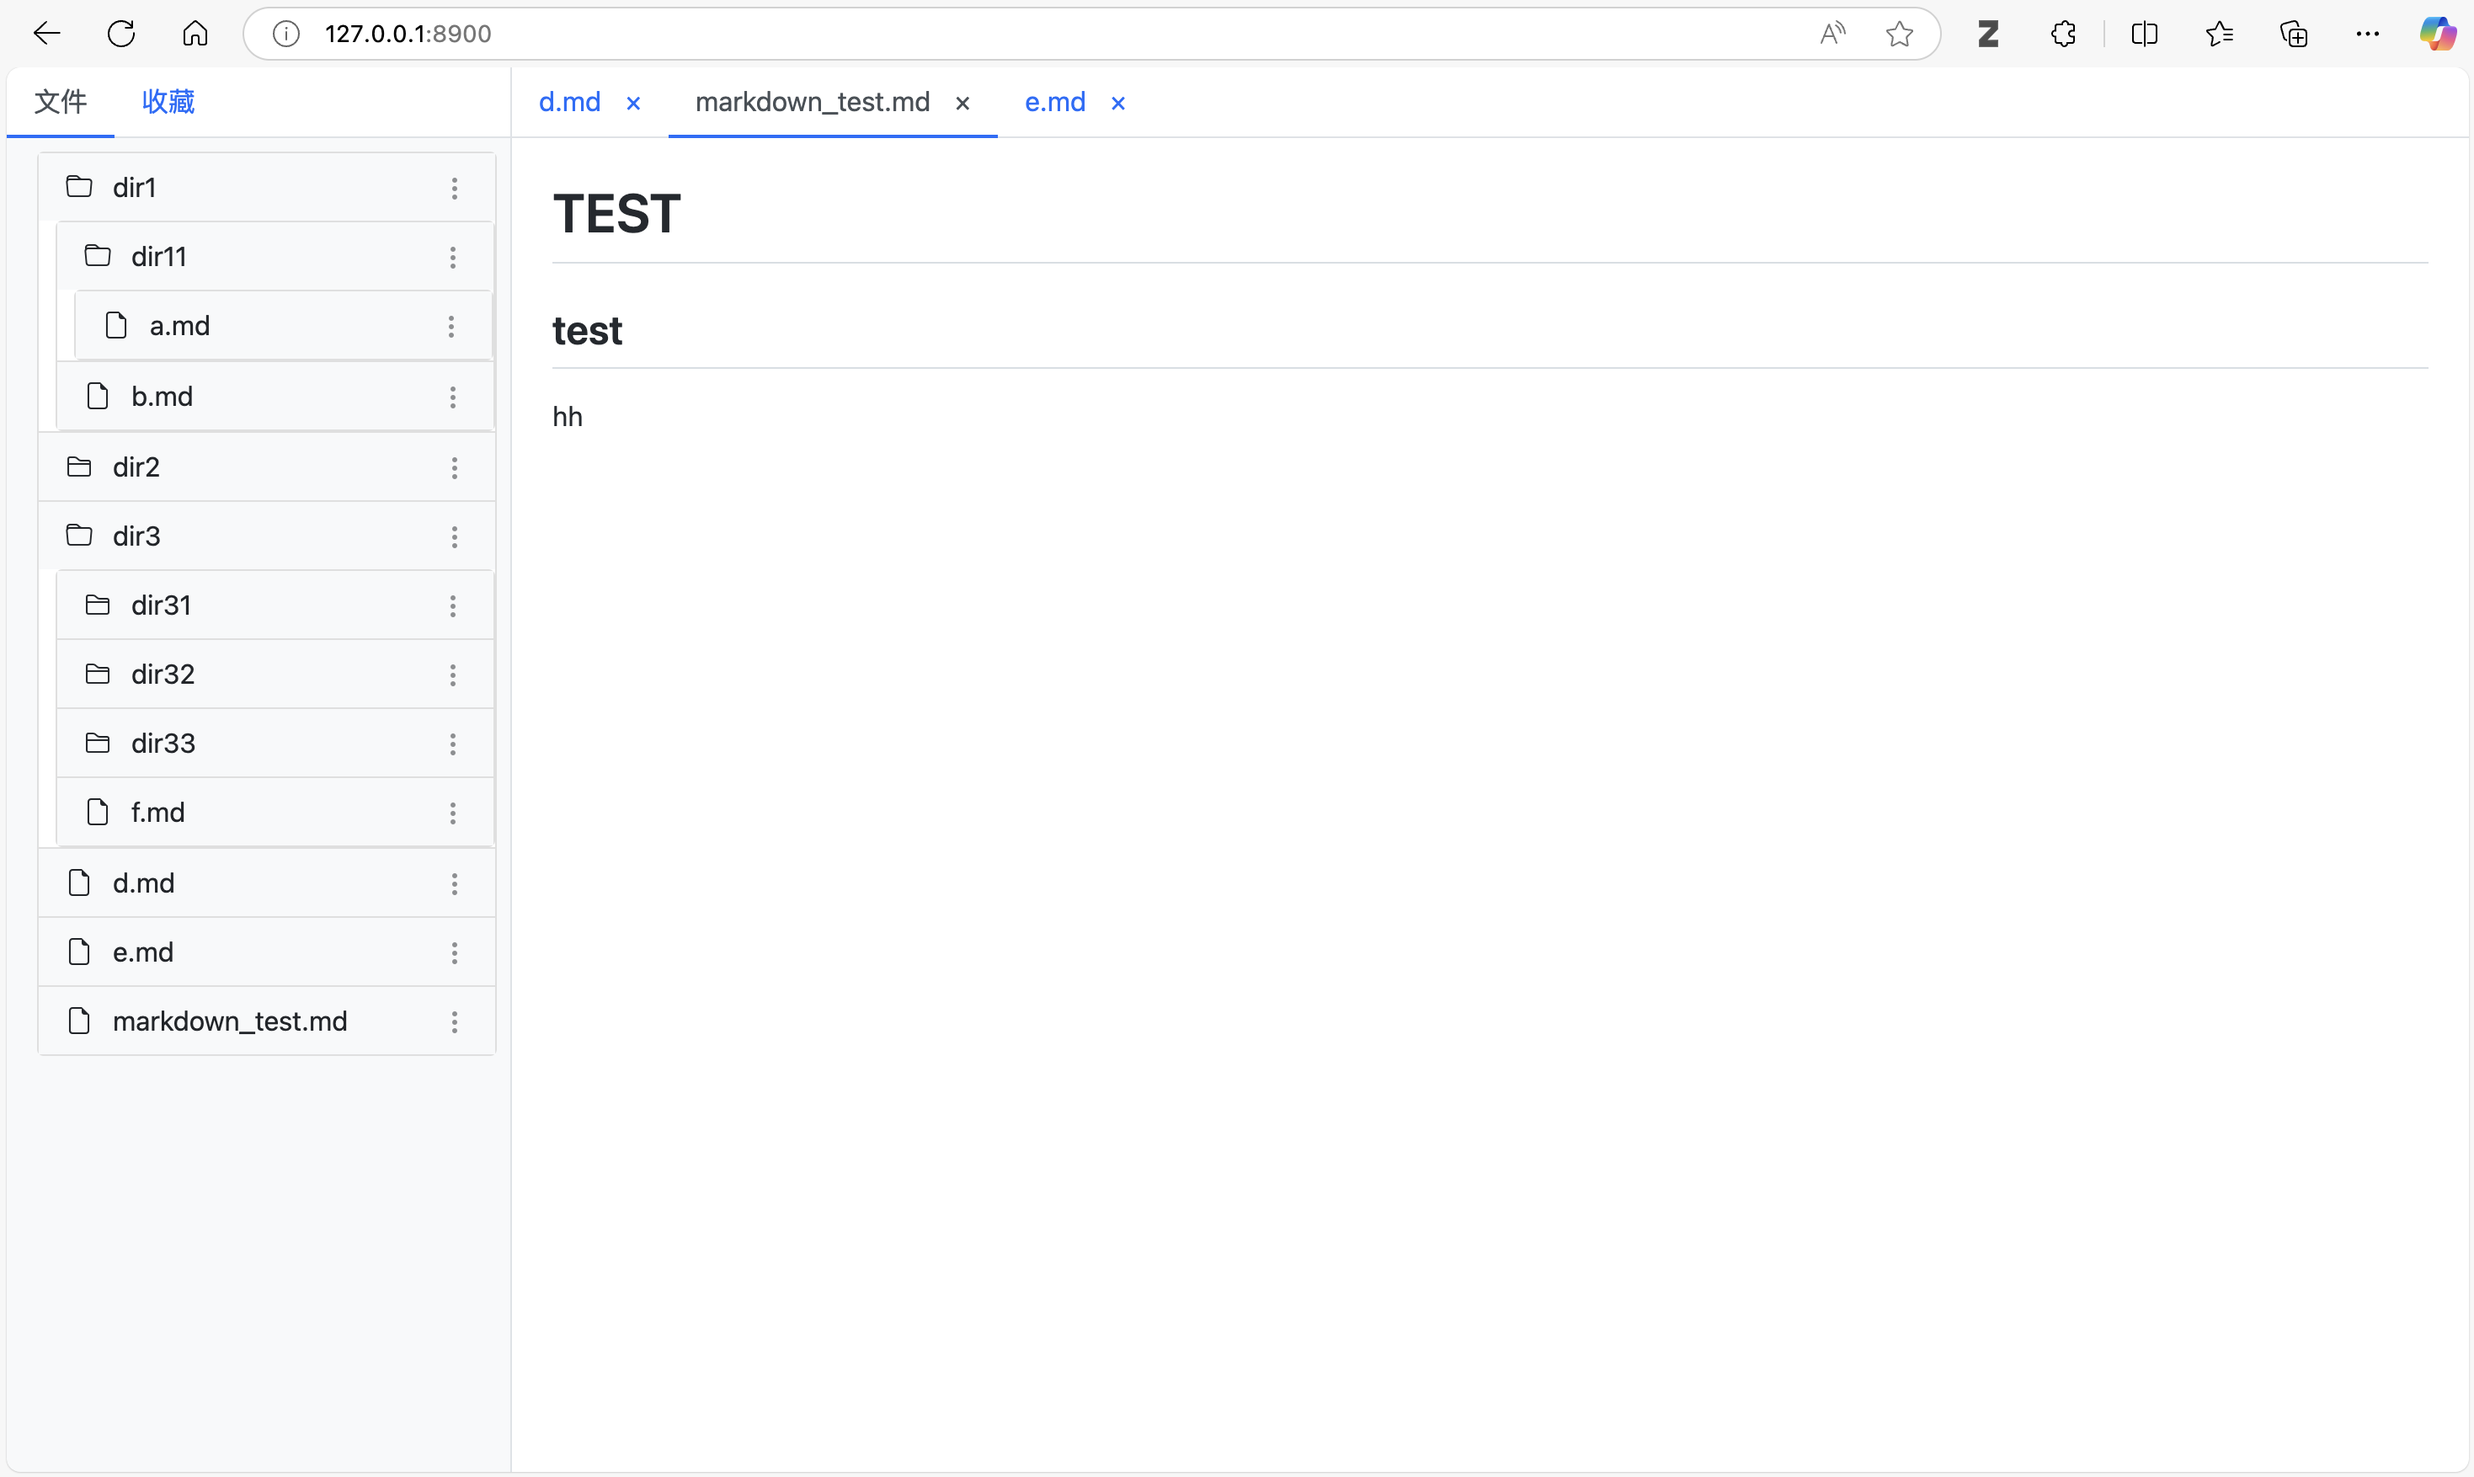
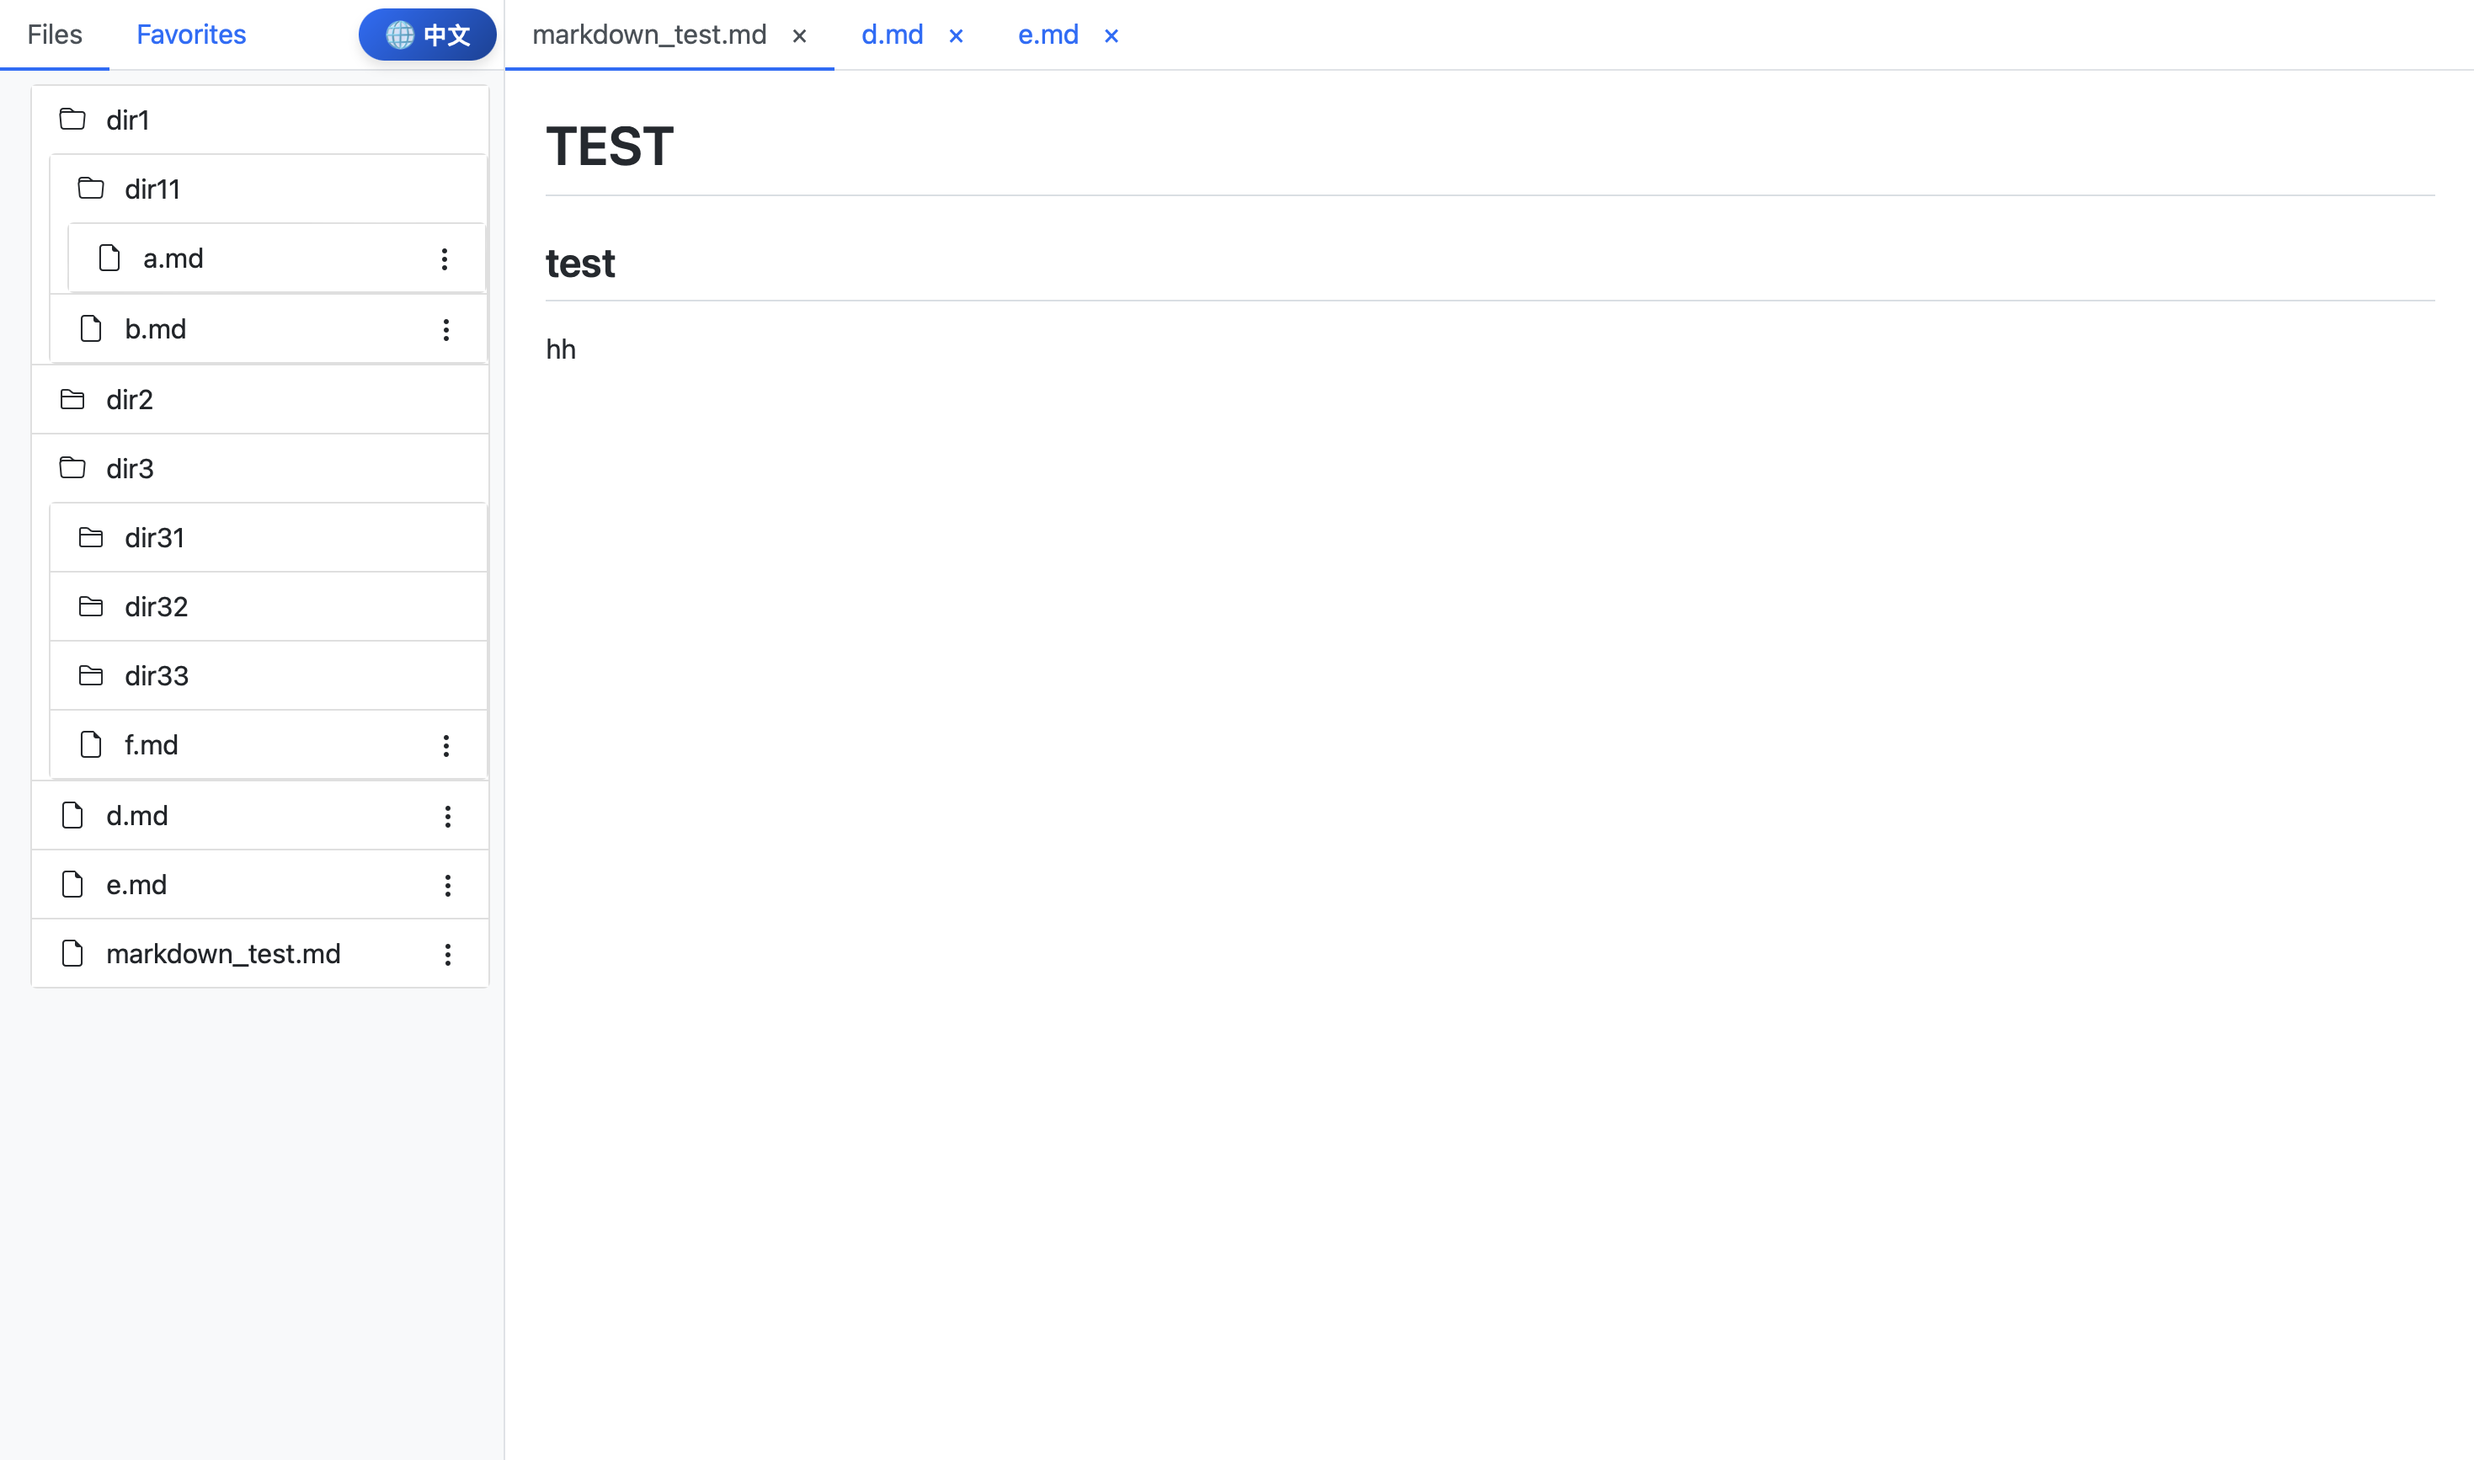
fix known bugs; update readme

diff --git a/templates/index.html b/templates/index.html
@@ -201,6 +201,23 @@
             });
             // 更新语言切换按钮文本
             $('#language-toggle button').text(currentLanguage === 'en' ? "🌐 中文" : "🌐 English");
+            // 切换语言时更新每个文件项的toggle-favorite按钮
+            $('.file-item').each(function(){
+                if($(this).data('item')){
+                    updateToggleFavorite($(this));
+                }
+            });
+        }
+        
+        // 新增：更新单个文件项toggle-favorite按钮的文本与操作
+        function updateToggleFavorite($fileItem) {
+            const item = $fileItem.data('item');
+            if (!item) return;
+            const isFav = state.favorites.some(f => f.path === item.path);
+            $fileItem.find('.toggle-favorite')
+                .text(isFav ? (currentLanguage === 'en' ? 'Unfavorite' : '取消收藏')
+                            : (currentLanguage === 'en' ? 'Favorite' : '收藏'))
+                .data('action', isFav ? 'remove' : 'add');
         }
 
         // 初始化
@@ -313,6 +330,7 @@
                 });
                 $childrenContainer.html($ul);
                 $container.append($childrenContainer);
+                updateLanguage();
             });
         }
 
@@ -395,6 +413,12 @@
             $.get('/api/favorites', favorites => {
                 state.favorites = favorites
                 renderFavorites()
+                // Update each file-item toggle-favorite button based on current favorites state
+                $('.file-item').each(function(){
+                    if ($(this).data('item')) {
+                        updateToggleFavorite($(this));
+                    }
+                });
             })
         }
 

diff --git a/README_zh.md b/README_zh.md
@@ -1,0 +1,69 @@
+# 轻量级 Markdown 预览服务器
+
+## 简介
+en [English](README.md)
+
+这是一个基于 Flask 的简单 Markdown 预览服务器，允许你浏览目录并以类似 GitHub 的风格预览 Markdown 文件。
+
+## 功能
+- **文件浏览器：** 浏览目录并显示 Markdown 文件。
+- **实时 Markdown 预览：** 实时渲染 Markdown 内容。
+- **标签管理：** 打开、关闭和切换多个 Markdown 文件。
+- **收藏夹：** 轻松保存和访问常用文件。
+- **多语言支持：** 同时支持中文和英文。
+
+![截图](assets/image.png)
+
+## 已知问题
+
+1. 在收藏夹面板中切换语言或取消收藏可能会导致文件浏览器中的收藏/取消收藏按钮异常。
+
+## 安装
+
+1. **克隆代码库：**
+    ```bash
+    git clone https://github.com/loiqy/tiny-markdown-preview-server.git
+    ```
+2. **进入项目目录：**
+    ```bash
+    cd tiny-markdown-preview-server
+    ```
+3. **安装依赖：**
+    ```bash
+    pip install flask markdown
+    ```
+
+## 使用
+
+通过以下命令运行应用：
+```bash
+python app.py /path/to/your/markdown/files
+```
+在浏览器中打开 [http://localhost:8900](http://localhost:8900) 开始预览。
+
+## 远程服务器使用技巧
+
+若在远程机器上启动服务器后希望在本地预览，可以使用 SSH 端口转发：
+
+1. 在服务器上启动应用：
+    ```bash
+    python app.py /path/to/your/markdown/files
+    ```
+2. 在本地机器上建立 SSH 隧道：
+    ```bash
+    ssh -L 8900:localhost:8900 your_remote_user@remote_server_ip
+    ```
+3. 在浏览器中打开 [http://localhost:8900](http://localhost:8900) 查看预览效果。
+
+## 配置
+
+- **基础目录：** 启动应用时传入路径以指定自定义目录。
+- **收藏夹：** 由 `userdata/favorites.json` 管理（该目录已从版本控制中排除）。
+
+## 贡献
+
+欢迎贡献代码！如有改进建议，请提交 issue 或 pull request。
+
+## 许可证
+
+该项目遵循 [MIT 许可证](LICENSE) 授权。

diff --git a/README.md b/README.md
@@ -1,5 +1,8 @@
 # Tiny Markdown Preview Server
 
+## Introduction
+zh_CN [简体中文](README_zh.md)
+
 A simple Flask-based Markdown preview server that lets you navigate directories and preview Markdown files with a GitHub-like style.
 
 ## Features
@@ -7,6 +10,7 @@ A simple Flask-based Markdown preview server that lets you navigate directories 
 - **Real-time Markdown Preview:** Render Markdown content live.
 - **Tab Management:** Open, close, and switch between multiple Markdown files.
 - **Favorites:** Easily save and access frequently used files.
+- **Multilingual Support:** Support for both Chinese and English.
 
 ![Screenshot](assets/image.png)
 
